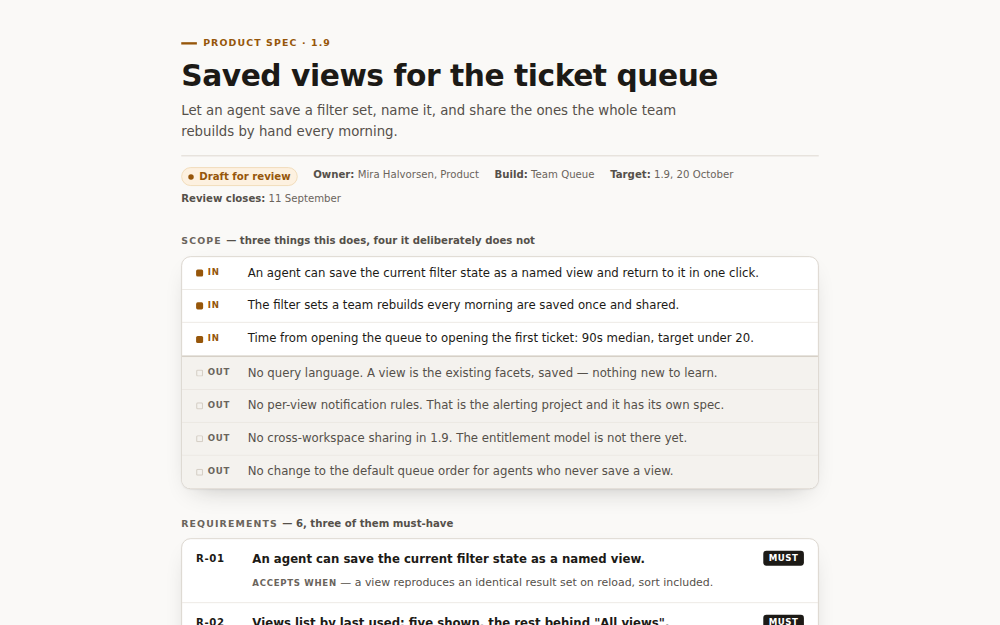
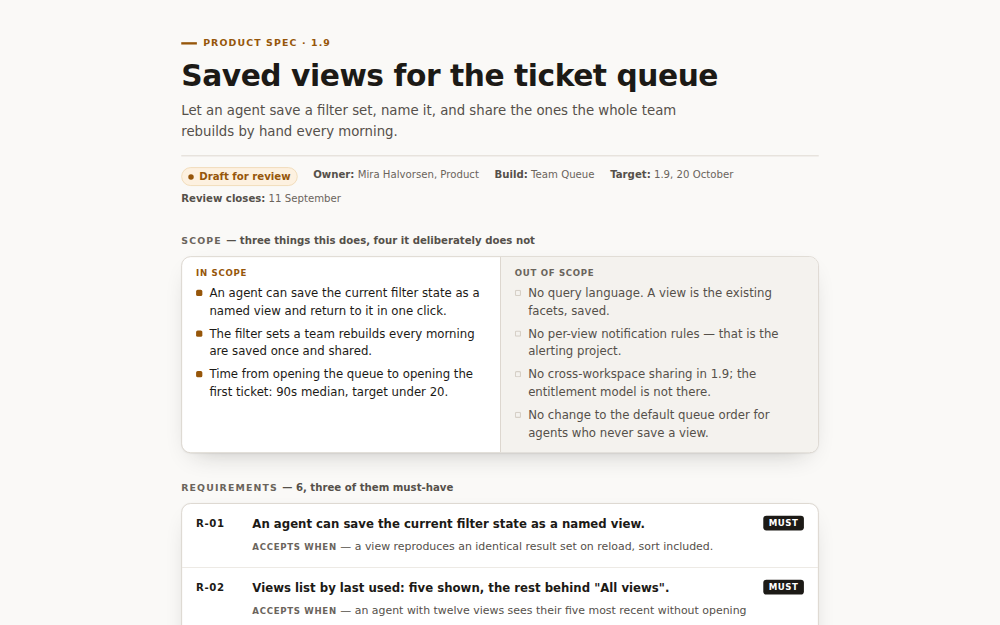
Take spec's new opening band, and the description that finally matches it
`spec` at 3eb5a248a9e9: the in/out scope ledger is now a two-column band directly
under the metadata row, which is the §7.1 opening move it did not have — it was the
only one of nineteen that went from metadata straight into an undifferentiated list.
2,832 → 2,781, so the opening cost nothing.

The description moves with the shape, and that pairing is the point. This seam has
now flipped three times in one day, in both directions: the manifest promised "goals
and non-goals side by side" while the file had a ledger; I corrected the manifest to
describe the ledger; the ledger has now become a two-up band and the correction is
stale. Nobody was careless in any of the three — the shape and the sentence are two
texts that must be edited together, and they will keep desynchronising while that is
true. Wave 2 carries the structural fix.

diff --git a/templates/spec.html b/templates/spec.html
@@ -8,7 +8,7 @@
   TEMPLATE: spec  ·  CATEGORY: decisions
   VOICE: humanist sans (system-ui stack), tight measure   SCHEME: near-white paper, deep amber accent
   Rewriting this? Replace the content, keep the structure and the styling.
-  THE OUT ROWS ARE NOT DECORATION. A spec with goals and no non-goals has not been written yet —
+  THE OUT COLUMN IS NOT DECORATION. A spec with goals and no non-goals has not been written yet —
   the non-goals are what stop the scope moving, so give them the same care as the goals.
   EVERY REQUIREMENT NEEDS AN ACCEPTANCE LINE. If you cannot say how you would know it was met,
   it is a wish, not a requirement: cut it or move it to the open questions.
@@ -42,19 +42,25 @@ ul,ol{margin:0;padding:0;list-style:none}
 .state{display:inline-flex;align-items:center;gap:.4375rem;padding:.0625rem .5rem;border:1px solid var(--amber-line);background:var(--amber-soft);border-radius:999px;color:var(--amber);font-size:.8125rem;font-weight:700}
 .state::before{content:"";width:.4375rem;height:.4375rem;border-radius:999px;background:var(--amber)}
 
-/* scope ledger — one list, one marker column, the in/out boundary as a single line */
-.scope{margin-top:.75rem;background:var(--card);border:1px solid var(--line-2);border-radius:.75rem;box-shadow:var(--shadow);overflow:hidden}
-.scope li{display:grid;grid-template-columns:3.25rem minmax(0,1fr);gap:.875rem;padding:.5625rem 1.125rem;border-top:1px solid var(--line);font-size:.9375rem}
-.scope li:first-child{border-top:0}
-.scope li.edge{border-top:2px solid var(--line-2)}
-.scope .in{color:var(--ink)}
-.scope .out{color:var(--muted);background:var(--tint)}
-.mk{display:flex;align-items:center;gap:.375rem;font-size:.6875rem;font-weight:700;letter-spacing:.08em;text-transform:uppercase;line-height:1.7}
-.mk::before{content:"";flex:none;width:.5625rem;height:.5625rem;border-radius:.125rem}
-.in .mk{color:var(--amber)}
-.in .mk::before{background:var(--amber)}
-.out .mk{color:var(--subtle)}
-.out .mk::before{box-shadow:inset 0 0 0 1.5px var(--line-2)}
+/* SCOPE BAND — the opening move, directly under the metadata row.
+   Two columns, in beside out, so the scope boundary is a vertical rule you read across rather
+   than a line you read down. This is the template's own best idea hoisted to the top: the shape
+   and the promise ("goals beside non-goals") are the same object again.
+   The marker is filled vs hollow AND the column carries the word, so neither colour nor position
+   is doing the work alone. */
+.scope{display:grid;grid-template-columns:1fr 1fr;margin-top:.75rem;background:var(--card);border:1px solid var(--line-2);border-radius:.75rem;box-shadow:var(--shadow);overflow:hidden}
+.scope>div{padding:.875rem 1.125rem}
+.scope .out{background:var(--tint);border-left:1px solid var(--line-2)}
+.scope h3{font-size:.6875rem;font-weight:700;letter-spacing:.08em;text-transform:uppercase;margin-bottom:.5rem}
+.scope .in h3{color:var(--amber)}
+.scope .out h3{color:var(--subtle)}
+.scope li{position:relative;padding-left:1.0625rem;font-size:.9375rem;line-height:1.5}
+.scope li+li{margin-top:.4375rem}
+.scope li::before{content:"";position:absolute;left:0;top:.4375rem;width:.5rem;height:.5rem;border-radius:.125rem}
+.scope .in li{color:var(--ink)}
+.scope .in li::before{background:var(--amber)}
+.scope .out li{color:var(--muted)}
+.scope .out li::before{box-shadow:inset 0 0 0 1.5px var(--line-2)}
 h2.sec{margin-top:2.25rem;font-size:.75rem;font-weight:700;letter-spacing:.12em;text-transform:uppercase;color:var(--subtle)}
 h2.sec .count{color:var(--muted);font-weight:600;letter-spacing:0;text-transform:none;font-size:.8125rem}
 h2.sec+*{margin-top:.75rem}
@@ -87,8 +93,9 @@ h2.sec+*{margin-top:.75rem}
   .mast .lead{font-size:1rem}
   h2.sec{margin-top:1.625rem}
   .colophon{margin-top:1.5rem}
-  .scope li{display:block;padding:.5rem 1rem}
-  .mk{display:inline-flex;vertical-align:baseline;margin-right:.375rem}
+  .scope{grid-template-columns:minmax(0,1fr)}
+  .scope>div{padding:.75rem 1rem}
+  .scope .out{border-left:0;border-top:1px solid var(--line-2)}
   .reqs>li{grid-template-columns:minmax(0,1fr) auto;gap:.25rem .75rem;padding:.8125rem 1rem}
   .rid{grid-row:auto;grid-column:1;font-size:.8125rem;color:var(--subtle)}
   .req{grid-column:1/-1}
@@ -115,15 +122,25 @@ h2.sec+*{margin-top:.75rem}
 
   <section>
     <h2 class="sec">Scope <span class="count">— three things this does, four it deliberately does not</span></h2>
-    <ul class="scope">
-      <li class="in"><span class="mk">In</span><span>An agent can save the current filter state as a named view and return to it in one click.</span></li>
-      <li class="in"><span class="mk">In</span><span>The filter sets a team rebuilds every morning are saved once and shared.</span></li>
-      <li class="in"><span class="mk">In</span><span>Time from opening the queue to opening the first ticket: 90s median, target under 20.</span></li>
-      <li class="out edge"><span class="mk">Out</span><span>No query language. A view is the existing facets, saved — nothing new to learn.</span></li>
-      <li class="out"><span class="mk">Out</span><span>No per-view notification rules. That is the alerting project and it has its own spec.</span></li>
-      <li class="out"><span class="mk">Out</span><span>No cross-workspace sharing in 1.9. The entitlement model is not there yet.</span></li>
-      <li class="out"><span class="mk">Out</span><span>No change to the default queue order for agents who never save a view.</span></li>
-    </ul>
+    <div class="scope">
+      <div class="in">
+        <h3>In scope</h3>
+        <ul>
+          <li>An agent can save the current filter state as a named view and return to it in one click.</li>
+          <li>The filter sets a team rebuilds every morning are saved once and shared.</li>
+          <li>Time from opening the queue to opening the first ticket: 90s median, target under 20.</li>
+        </ul>
+      </div>
+      <div class="out">
+        <h3>Out of scope</h3>
+        <ul>
+          <li>No query language. A view is the existing facets, saved.</li>
+          <li>No per-view notification rules — that is the alerting project.</li>
+          <li>No cross-workspace sharing in 1.9; the entitlement model is not there.</li>
+          <li>No change to the default queue order for agents who never save a view.</li>
+        </ul>
+      </div>
+    </div>
   </section>
 
   <section>

diff --git a/templates/manifest.ts b/templates/manifest.ts
@@ -80,7 +80,7 @@ export const starterTemplateManifest = [
         "slug": "spec",
         "category": "decisions",
         "name": "Spec",
-        "description": "A PRD: one scope ledger where every line is marked in or out, numbered requirements each carrying a priority and an acceptance line, and the open questions still blocking the build.",
+        "description": "A PRD that opens on scope itself — what the release does, beside what it deliberately does not — then numbered requirements each carrying a priority and an acceptance line, and the open questions still blocking the build.",
         "type": "html",
         "content_file": "spec.html",
         "thumbnail": "/assets/template-thumbs/spec.png",
